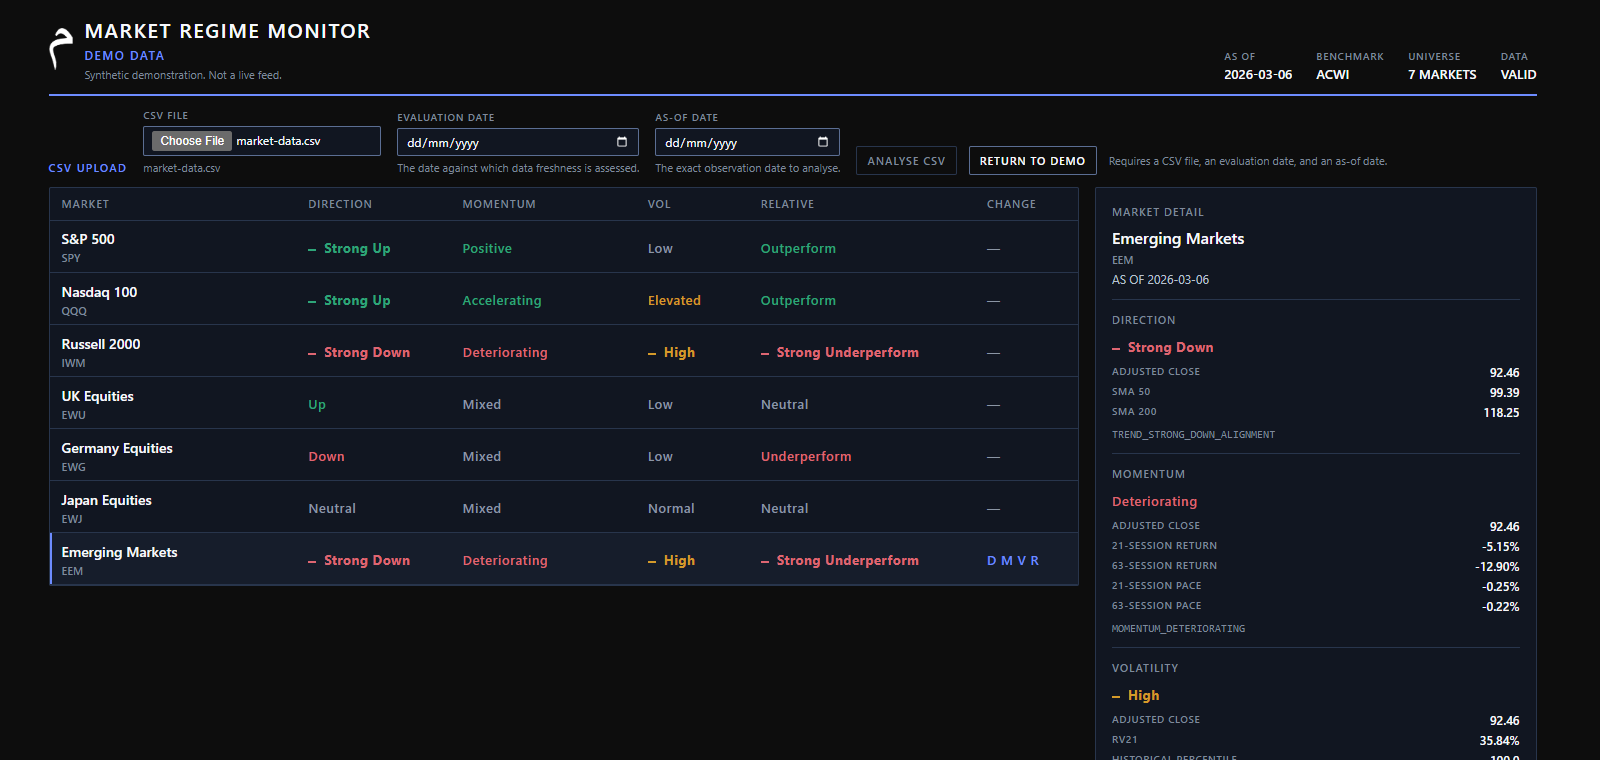
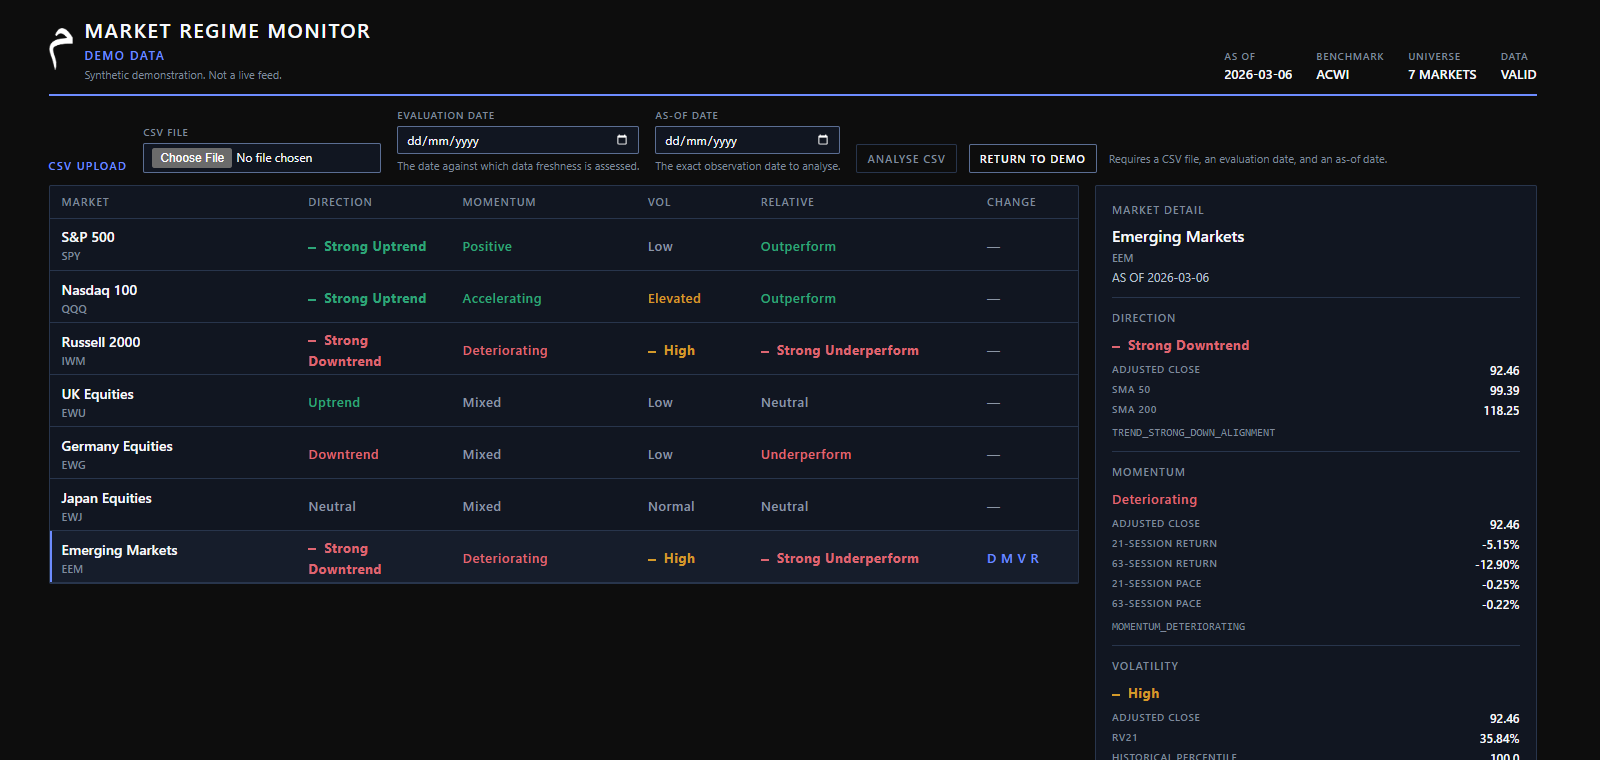
docs: finalise public release materials

diff --git a/PROJECT_STATE.md b/PROJECT_STATE.md
@@ -2,14 +2,14 @@
 
 **Project:** Market Regime Monitor
 **Intended repository name, not created:** `market-regime-monitor`
-**Package version:** 0.1.0 in `pyproject.toml`. Recommended public tag, not created: `v1.0.0`.
+**Package version:** 1.0.0 in `pyproject.toml`. Future public tag, not created: `v1.0.0`.
 **As of:** 21 October 2026
 
 ## Phase
 
-Phase 2F — V1 release candidate prepared.
+Market Regime Monitor V1.0.0 is ready for owner-authorised publication.
 
-V1 feature development is frozen and complete. The finance core, API, and frontend are hardened. Accessibility and MEEM visual polish have had their final V1 review. The public README and screenshots are ready. Continuous integration is configured and has not been run on GitHub. The sensitive-data and history review is complete. There is no GitHub remote. Publication is not yet authorised. The recommended release is `v1.0.0`, subject to owner approval and a final publication audit.
+Functionality is complete and frozen. The finance core, API, and frontend are hardened. Public terminology is approved. Human-facing prose uses British English. The source-code licence is Apache License 2.0. MEEM Technologies branding is proprietary and excluded from that licence. The historical machine-local working-copy path has been removed from Git history. The README and screenshots are public-ready. Continuous integration is configured and has not been run on GitHub. There is no GitHub remote. Publication has not been performed. The future release tag is `v1.0.0`, and it has not been created.
 
 ## What exists
 
@@ -58,7 +58,7 @@ An observation later than `evaluation_date` is `DATA_FUTURE_DATE`. What Changed 
 - Market Regime Snapshot: implemented and integrity-hardened. It assembles `TrendResult`, `MomentumResult`, `VolatilityResult`, and `RelativePerformanceResult` for one selected market and one as-of date. It does not call full-board validation. A component identity that contradicts the request fails with `MarketRegimeError` and `REGIME_COMPONENT_MISMATCH`. Direction is `trend.trend_state`. No composite directional regime exists. This assembly is not independent bank model validation or regulatory approval.
 - What Changed: implemented. It compares the four categorical labels on the current snapshot and the immediately previous observation. Statuses are `CHANGED`, `UNCHANGED`, and `UNAVAILABLE`. It calculates no finance.
 - Finance and monitoring core: frozen
-- Tests: 327 Python tests passed. The original 309 finance and monitoring tests remain passing. Four nested-identity checks were added to the pure comparator. Fourteen adapter tests cover the weekday demonstration contract, same-bytes demo/upload finance equivalence, categorical response literals, the request-validation envelope, and the OpenAPI enums. Frontend tests: 26 passed.
+- Tests: 327 Python tests passed. The original 309 finance and monitoring tests remain passing. Four nested-identity checks were added to the pure comparator. Fourteen adapter tests cover the weekday demonstration contract, same-bytes demo/upload finance equivalence, categorical response literals, the request-validation envelope, and the OpenAPI enums. Frontend tests: 28 passed, including the public Direction presentation labels.
 - MEEM production brand palette: locked
 - MEEM Toolkit Design System: v1.0 specified
 - Original finance tests: 309 passed, plus 4 nested-identity checks
@@ -102,9 +102,10 @@ One local measurement on 21 October 2026, Python 3.14, this Windows machine: ass
 - The pure comparator now rejects a manually constructed snapshot whose nested component market or date disagrees with the snapshot, and a relative-performance benchmark that is blank or disagrees with the other snapshot. The code remains `CHANGE_SNAPSHOT_MISMATCH`. Production formulas are unchanged.
 - Categorical API fields use closed literals. Reason codes stay strings. Omitted required form fields return HTTP 422 with `API_REQUEST_VALIDATION` and category `request`. Explicit adapter errors are unchanged.
 - What Changed stays the fifth detail section. Removing the Trend Score row is the only vertical change. Section spacing was left at 12 px because tighter gaps would make the evidence harder to read. At 1600 × 1400 the whole detail fits. At 1366 × 768, with the upload form open, What Changed begins below the fold. That short scroll is accepted V1 behaviour.
-- No software licence has been selected. Do not publish until the owner chooses one.
+- Source code is licensed under the Apache License 2.0. MEEM Technologies branding is proprietary and is not included in that licence. See `LICENSE` and `BRANDING.md`.
+- Direction on screen uses Strong Uptrend, Uptrend, Neutral, Downtrend, and Strong Downtrend. The API Trend states remain Strong Up, Up, Neutral, Down, and Strong Down.
 - No GitHub remote, release, or tag has been created.
 
 ## Next approved action
 
-Stop after the Phase 2F release-candidate report. Do not push, publish, or tag until the owner completes the final publication audit.
+Stop after the local V1.0.0 publication-preparation report. Do not create a remote, push, publish, or tag until the owner authorises publication.

diff --git a/README.md b/README.md
@@ -4,7 +4,7 @@ A deterministic market-state analytics application. It reduces major equity mark
 
 ![Market Regime Monitor board and Emerging Markets detail on the bundled demo](docs/images/market-state-board.png)
 
-The same validated input always produces the same result. Disagreements between the four dimensions are preserved. There is no fifth, composite regime.
+The same validated input always produces the same result. Disagreements between the four dimensions are preserved. There is no fifth, composite regime. The name uses regime for that visible four-part state, not for a single hidden score.
 
 ## What it does
 
@@ -28,7 +28,7 @@ The V1 universe is SPY, QQQ, IWM, EWU, EWG, EWJ, and EEM. ACWI is the common com
 
 | Dimension | What it measures |
 | --- | --- |
-| Direction | The Trend state from the adjusted close against its 50-observation and 200-observation simple moving averages. |
+| Direction | SMA-based trend classification using adjusted close, SMA50 and SMA200. It is not a swing-high/swing-low trend model. The screen shows Strong Uptrend, Uptrend, Neutral, Downtrend, and Strong Downtrend. The API still returns Strong Up, Up, Neutral, Down, and Strong Down. |
 | Momentum | Whether the 21-observation and 63-observation price pace agree, conflict, or are deteriorating. |
 | Volatility | 21-return annualised realised volatility, placed in a regime by its percentile against that market's own prior 252 readings. |
 | Relative Performance | The 63-observation active return of the market minus the ACWI return over the same observations. |
@@ -40,6 +40,8 @@ A market can be strong on one dimension and weak on another. The application doe
 ## What Changed
 
 What Changed compares the four categorical states with the immediately previous valid observation in the panel. A numerical move that stays inside the same state is not a change. The board stays quiet unless a label actually changes. The four possible dimensions, in order, are direction, momentum, volatility, and relative performance.
+
+Direction transitions use the public labels. Up to Strong Up is shown as Uptrend → Strong Uptrend. Momentum, Volatility, and Relative Performance keep their existing labels.
 
 If the panel is long enough for the current state but not for the previous complete snapshot, the status is unavailable. That is a result, not a failed request.
 
@@ -90,11 +92,11 @@ Client-side checks, such as the file-size notice, are there for the person using
 
 ## Testing
 
-The release-candidate suite, run locally:
+The V1.0.0 suite, run locally:
 
 - 327 Python tests passed, including finance unit and regression tests, deterministic golden fixtures, look-ahead checks, market isolation, and API contract tests.
 - The original 309 finance and monitoring tests still pass. Four further tests reject a manually assembled snapshot whose nested identity contradicts the snapshot.
-- 26 frontend behaviour tests passed, covering the board, the detail panel, CSV analysis, Return to Demo, stale-response handling, and focus after a mode change.
+- 28 frontend behaviour tests passed, covering the board, the detail panel, public Direction labels, CSV analysis, Return to Demo, stale-response handling, and focus after a mode change.
 - `python -m pip check` reported no broken requirements.
 - `npm audit --audit-level=high` and `npm audit --omit=dev --audit-level=high` reported no vulnerabilities.
 
@@ -175,4 +177,8 @@ MEEM_DESIGN_SYSTEM.md    visual system
 
 ## Branding
 
-The interface uses MEEM Technologies branding. MEEM Technologies branding and marks are proprietary to their owner. No software licence has been selected for this repository.
+The interface uses MEEM Technologies branding. MEEM Technologies branding and marks are proprietary to their owner.
+
+MEEM Technologies is a UK-based investment-technology engineering company building transparent, auditable software for international capital-markets workflows.
+
+Source code in this repository is licensed under the Apache License 2.0. See `LICENSE`. That licence does not grant a right to use the MEEM Technologies name, mark, logos, or other brand assets. Screenshots and documentation that contain the mark do not independently licence the mark. See `BRANDING.md`.

diff --git a/UI_CONCEPT.md b/UI_CONCEPT.md
@@ -1,6 +1,6 @@
 # Interface concept
 
-**Status:** design specified and implemented. The branded board, row selection, detail panel, CSV upload controls, and Return to Demo are the V1 release candidate described in `PROJECT_STATE.md`. Visual tokens are in `MEEM_DESIGN_SYSTEM.md` and `MEEM_DESIGN_TOKENS.json`. Trend Score is kept in the API and is not shown in the detail panel.
+**Status:** design specified and implemented. The branded board, row selection, detail panel, CSV upload controls, and Return to Demo are the V1 release candidate described in `PROJECT_STATE.md`. Visual tokens are in `MEEM_DESIGN_SYSTEM.md` and `MEEM_DESIGN_TOKENS.json`. Trend Score is kept in the API and is not shown in the detail panel. Direction on screen uses Uptrend and Downtrend wording. The API Trend states are unchanged.
 
 ## Intent
 
@@ -56,19 +56,21 @@ A row is about 48–54 px. All seven markets fit the primary desktop view. Every
 Examples:
 
 ```text
-Nasdaq 100  | STRONG UP | ACCELERATING  | ELEVATED | OUTPERFORM        | M
-UK Equities | DOWN      | DETERIORATING | HIGH     | STRONG OUTPERFORM | V
+Nasdaq 100  | STRONG UPTREND | ACCELERATING  | ELEVATED | OUTPERFORM        | M
+UK Equities | DOWNTREND      | DETERIORATING | HIGH     | STRONG OUTPERFORM | V
 ```
 
 The second row is a valid state. A falling market with deteriorating pace and high realised volatility can still be strongly ahead of ACWI.
 
 ## State cells
 
-Each cell shows the written category: STRONG UP, ACCELERATING, ELEVATED, OUTPERFORM. Colour reinforces the words. A small line or dot may sit beside the label. Stronger categories use heavier type and a small structural marker. They do not use a different hue.
+Each cell shows the written category: STRONG UPTREND, ACCELERATING, ELEVATED, OUTPERFORM. Colour reinforces the words. A small line or dot may sit beside the label. Stronger categories use heavier type and a small structural marker. They do not use a different hue.
+
+Direction on screen is Strong Uptrend, Uptrend, Neutral, Downtrend, or Strong Downtrend. Those words present the internal Trend states Strong Up, Up, Neutral, Down, and Strong Down. The API and the colour map keep the internal states. Momentum, Volatility, and Relative Performance are unchanged.
 
 Up and Strong Up share the positive hue. Down and Strong Down share the negative hue. Outperform and Strong Outperform share the positive hue. Colour is never the only difference.
 
-Cells do not use a large bright fill, a traffic light without text, a giant badge, an emoji, or a recommendation arrow. Ordinary labels such as STRONG UP, DOWN, ACCELERATING, DETERIORATING, HIGH, OUTPERFORM, and N/A are readable without a legend.
+Cells do not use a large bright fill, a traffic light without text, a giant badge, an emoji, or a recommendation arrow. Ordinary labels such as STRONG UPTREND, DOWNTREND, ACCELERATING, DETERIORATING, HIGH, OUTPERFORM, and N/A are readable without a legend.
 
 The scanning row does not show SMA50, SMA200, the 21-session or 63-session returns, pace, RV21, the volatility percentile, active return, or reason codes. The board answers what state. The detail panel answers why.
 

diff --git a/PROJECT_CHARTER.md b/PROJECT_CHARTER.md
@@ -6,7 +6,7 @@
 
 ## Product definition
 
-Market Regime Monitor is a deterministic market-regime scanner. One of its four instruments is Benchmark Relative Performance against ACWI.
+Market Regime Monitor is a deterministic market-state analytics application. The regime is the transparent four-dimensional state — Direction, Momentum, Volatility, and Relative Performance — not one hidden composite score. One of its four instruments is Benchmark Relative Performance against ACWI.
 
 A user should be able to understand the core state of a market in approximately two seconds, without interpreting a conventional multi-line technical-analysis chart.
 
@@ -49,7 +49,7 @@ V1 will not:
 - present a chart crowded with technical-indicator lines
 - claim that the system predicts turning points
 
-Strong Up and Strong Down are Trend states. The interface may show them under the heading Direction. They are not a composite of the other instruments, and they are not trade instructions.
+The internal Trend states are Strong Up, Up, Neutral, Down, and Strong Down. The public interface presents them as Strong Uptrend, Uptrend, Neutral, Downtrend, and Strong Downtrend. They are not a composite of the other instruments, and they are not trade instructions.
 
 ## Design constraints
 
